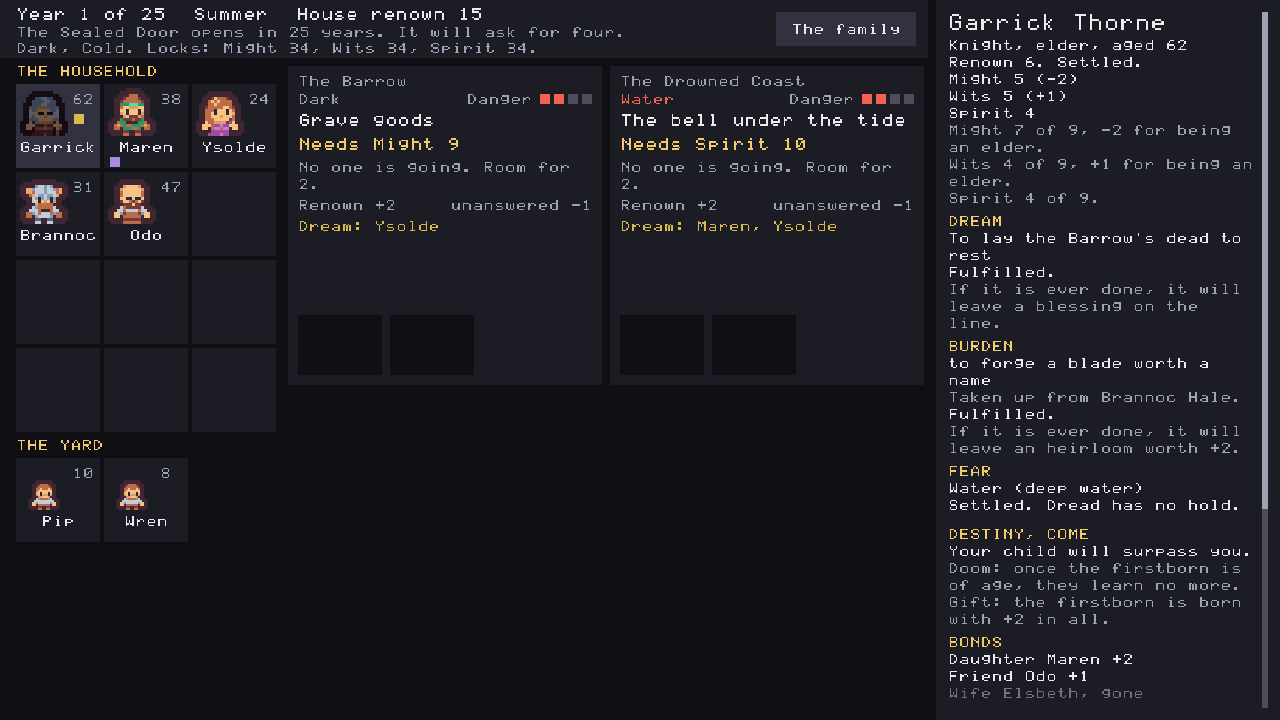
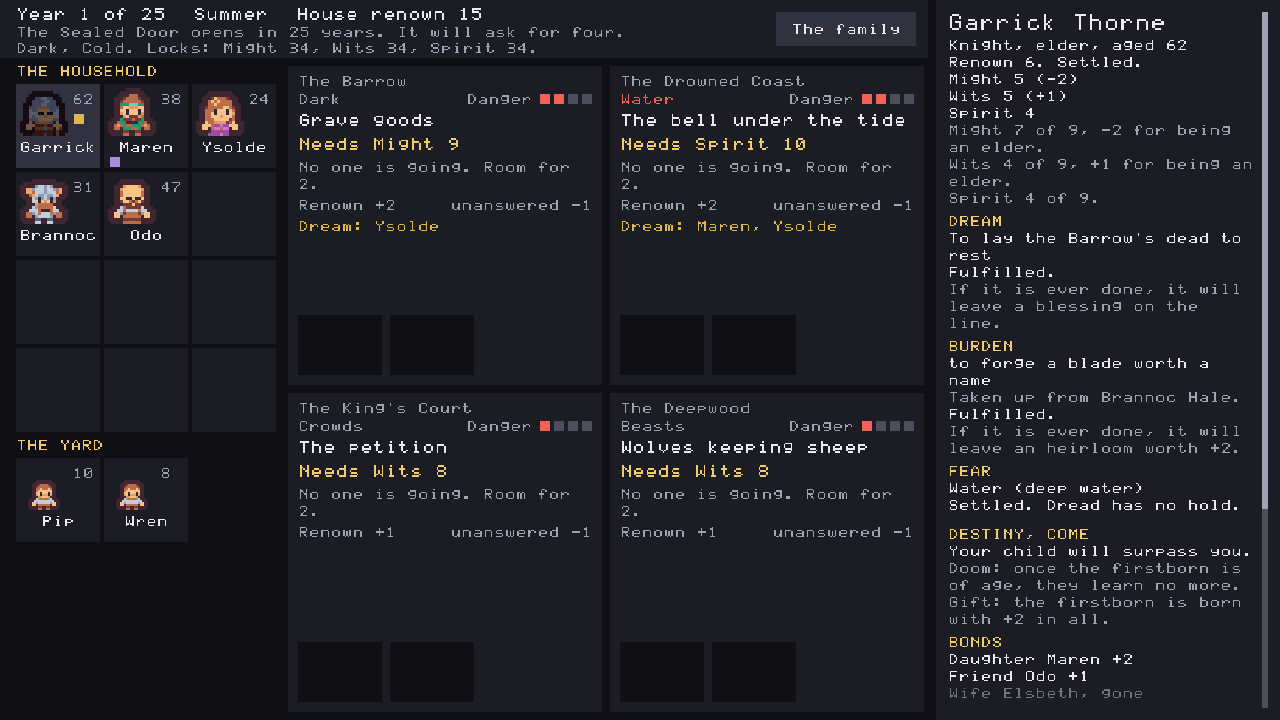
keifu: W5's pictures, and reading tests for the leader and the calling quest
The summer screens re-taken on the generated full board; w5-ghost.png is the
staged ghost's year-2 board. Two reading tests pin rules the first mutation
round's drafting found unpinned: a dreamer could go only by the party they
lead, and any quest on the board can be the one that calls.

Claude-Session: https://claude.ai/code/session_01FXXqLXFWrdwGZ7rReF8Ft6

diff --git a/games/keifu/src/reading.rs b/games/keifu/src/reading.rs
@@ -318,4 +318,35 @@ mod tests {
         assert_eq!(read_board(&content, &house.heroes, &quests, 0).ways, 15);
         assert_eq!(read_board(&content, &house.heroes, &quests, 1).ways, 21);
     }
+
+    #[test]
+    fn a_dreamer_could_go_only_if_the_party_they_lead_could_answer() {
+        let (content, house) = house();
+        let heroes = &house.heroes;
+        let (garrick, ysolde) = (id(heroes, "Garrick"), id(heroes, "Ysolde"));
+        // Grave goods calls both. Led by Garrick, Garrick and Brannoc bring 12 against
+        // 13: 42 in 100. Led by Ysolde, the party is Ysolde and Garrick, who bring less.
+        let grave = quest_titled(&content, "Grave goods", 13);
+        let led = likely_party(heroes, &adults(heroes), &grave, Some(ysolde));
+        assert_eq!(led, [ysolde, garrick]);
+        assert!(
+            success_ways(heroes, &led, &grave, 0) < 13,
+            "Ysolde's party is weaker"
+        );
+        assert!(could_go(&content, heroes, &grave, 0, garrick));
+        assert!(!could_go(&content, heroes, &grave, 0, ysolde));
+    }
+
+    #[test]
+    fn any_quest_on_the_board_can_be_the_one_that_calls_a_dreamer() {
+        let (content, house) = house();
+        let garrick = id(&house.heroes, "Garrick");
+        // Nobody could go on the first at 60; Garrick could on the second at 10.
+        let quests = [
+            quest_titled(&content, "The bell under the tide", 60),
+            quest_titled(&content, "Grave goods", 10),
+        ];
+        let reading = read_board(&content, &house.heroes, &quests, 0);
+        assert_eq!(reading.call, Some((1, garrick)));
+    }
 }
